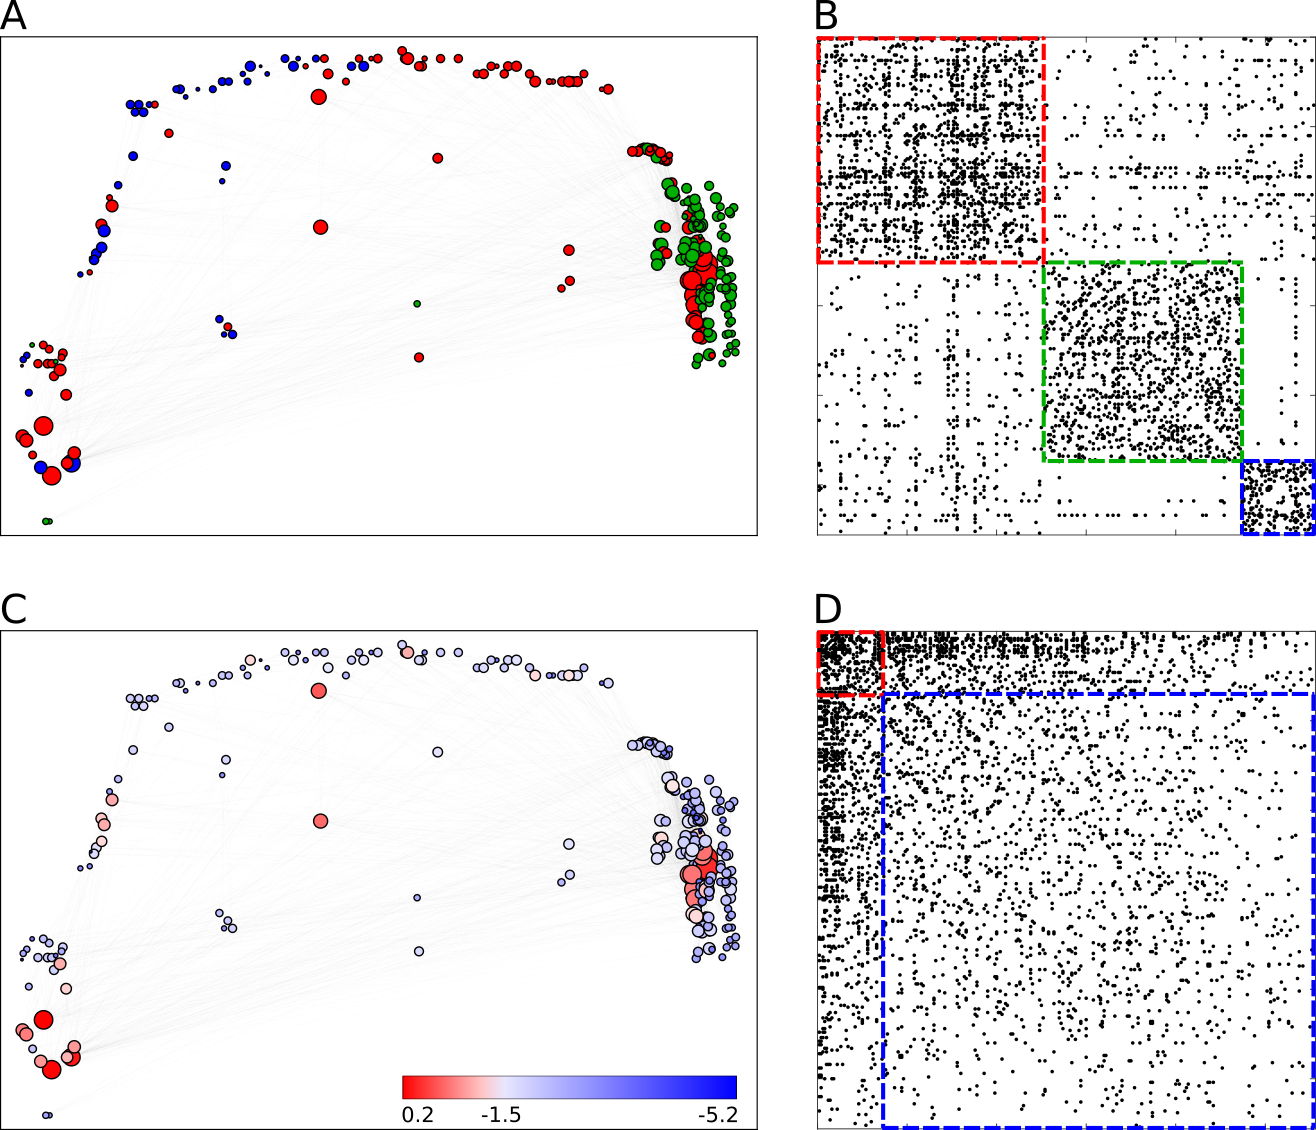
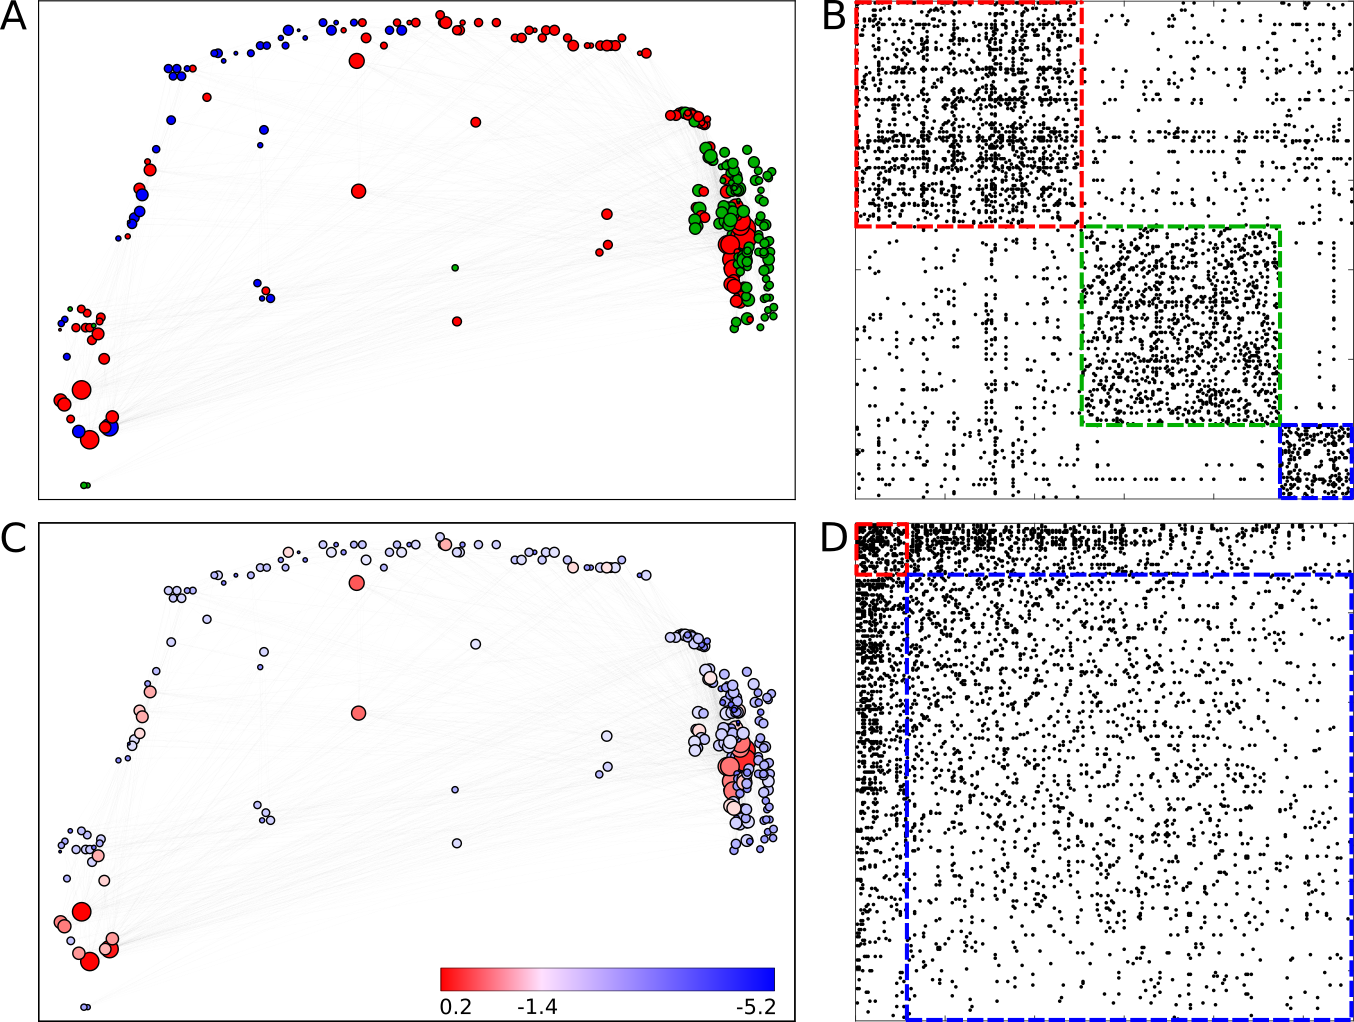
save

diff --git a/matlab_plot/plot_livejournal.m b/matlab_plot/plot_livejournal.m
@@ -2,16 +2,20 @@
 clear; close all;
 
 %%
-load('../results/livejournal0_distanceopt.mat');
+load('../results/livejournal1_distanceopt.mat');
 
 %%
-h = figure('Units', 'inches', 'Position', [0,0,12,9]);
-ax = usamap('conus'); ax.Units = 'inches'; 
-ax.Projection = 'orthographic';
+h = figure('Units', 'inches', 'Position', [0,0,20,15]);
+ax = usamap('conus'); ax.Units = 'inches';
+% setm(ax, 'MapProjection', 'bsam');
 states = shaperead('usastatelo', 'UseGeoCoords', true, 'Selector', {@(name) ~any(strcmp(name,{'Alaska','Hawaii'})), 'Name'});
 faceColors = makesymbolspec('Polygon', {'INDEX', [1 numel(states)], 'FaceColor', 'w'}); %NOTE - colors are random
 geoshow(ax, states, 'DisplayType', 'polygon', 'SymbolSpec', faceColors);
 framem off; gridm off; mlabel off; plabel off;
+
+h.PaperSize = [12.4400,  7.9230];
+ax.Position = [ -2.6000, -2.4000, 18.0000, 12.2250];
+h.Position  = [  0.0000,  0.0000, 12.4400,  7.9230];
 
 %%
 coords_data = cell2mat(coords);
@@ -30,5 +34,8 @@ end
 %---------------------------------------------------------------------
 
 for i = 1:n
-    geoshow(coordinates(vi & cid==i,1), coordinates(vi & cid==i,2), 'DisplayType', 'point', 'marker','o', 'MarkerSize',2, 'MarkerEdgeColor',cmap(i,:), 'MarkerFaceColor',cmap(i,:));
+    geoshow(coordinates(vi & cid==i,1), coordinates(vi & cid==i,2), 'DisplayType', 'point', 'marker','o', 'MarkerSize',2.0, 'MarkerEdgeColor',cmap(i,:), 'MarkerFaceColor',cmap(i,:));
 end
+
+%%
+print('livejournal','-dpng','-r200');

diff --git a/matlab_plot/plot_brightkite.m b/matlab_plot/plot_brightkite.m
@@ -5,13 +5,18 @@ clear; close all;
 load('../results/brightkite_distanceopt.mat');
 
 %%
-h = figure('Units', 'inches', 'Position', [0,0,12,9]); 
-ax = worldmap([-90, 90],[180.001, 179.999]); ax.Units = 'inches';
+h = figure('Units', 'inches'); 
+ax = worldmap([-90, 90],[-180, 180]); ax.Units = 'inches';
+setm(ax, 'MapProjection', 'braun');
 load coastlines;
 plotm(coastlat,coastlon);
 geoshow(coastlat,coastlon,'Color','black');
 setm(ax,'mlabelparallel',-90);
 gridm off; mlabel off; plabel off;
+
+h.PaperSize = [12.4400,  7.9230];
+ax.Position = [ -1.5300, -2.1500, 15.5000, 12.2250];
+h.Position  = [  0.0000,  0.0000, 12.4400,  7.9230];
 
 %%
 coords_data = cell2mat(coords);
@@ -28,13 +33,4 @@ for i = 1:n
 end
 
 %%
-print('brightkite','-dpdf','-r0');
-
-h.PaperSize = [9.3000, 6.8100];
-ax.Position = [0.0000, -0.2700, 9.3000, 7.3500];
-h.Position  = [0.0000,  0.0000, 9.3000, 6.8100];
-
-% ax.Position = [0.5000, 0.1500, 9.3000, 7.3500];
-% h.Position  = [0.0000,  0.0000, 9.8000, 7.5500];
-
-print('brightkite','-dpdf','-r0');
+print('brightkite','-dsvg','-r0');

diff --git a/Zhang2014/bp_c++/bpcp.cpp b/Zhang2014/bp_c++/bpcp.cpp
@@ -14,9 +14,9 @@
 
 using namespace std;
 
-const string ntkName = "brightkite50686";
-const int N = 50686; //number of nodes
-const int M = 194090; //number edges
+const string ntkName = "livejournal1155627";
+const int N = 1155627; //number of nodes
+const int M = 7188907; //number edges
 const int K = 2; //number of groups
 const int max_ite = 50; //number of maximum iteration
 
